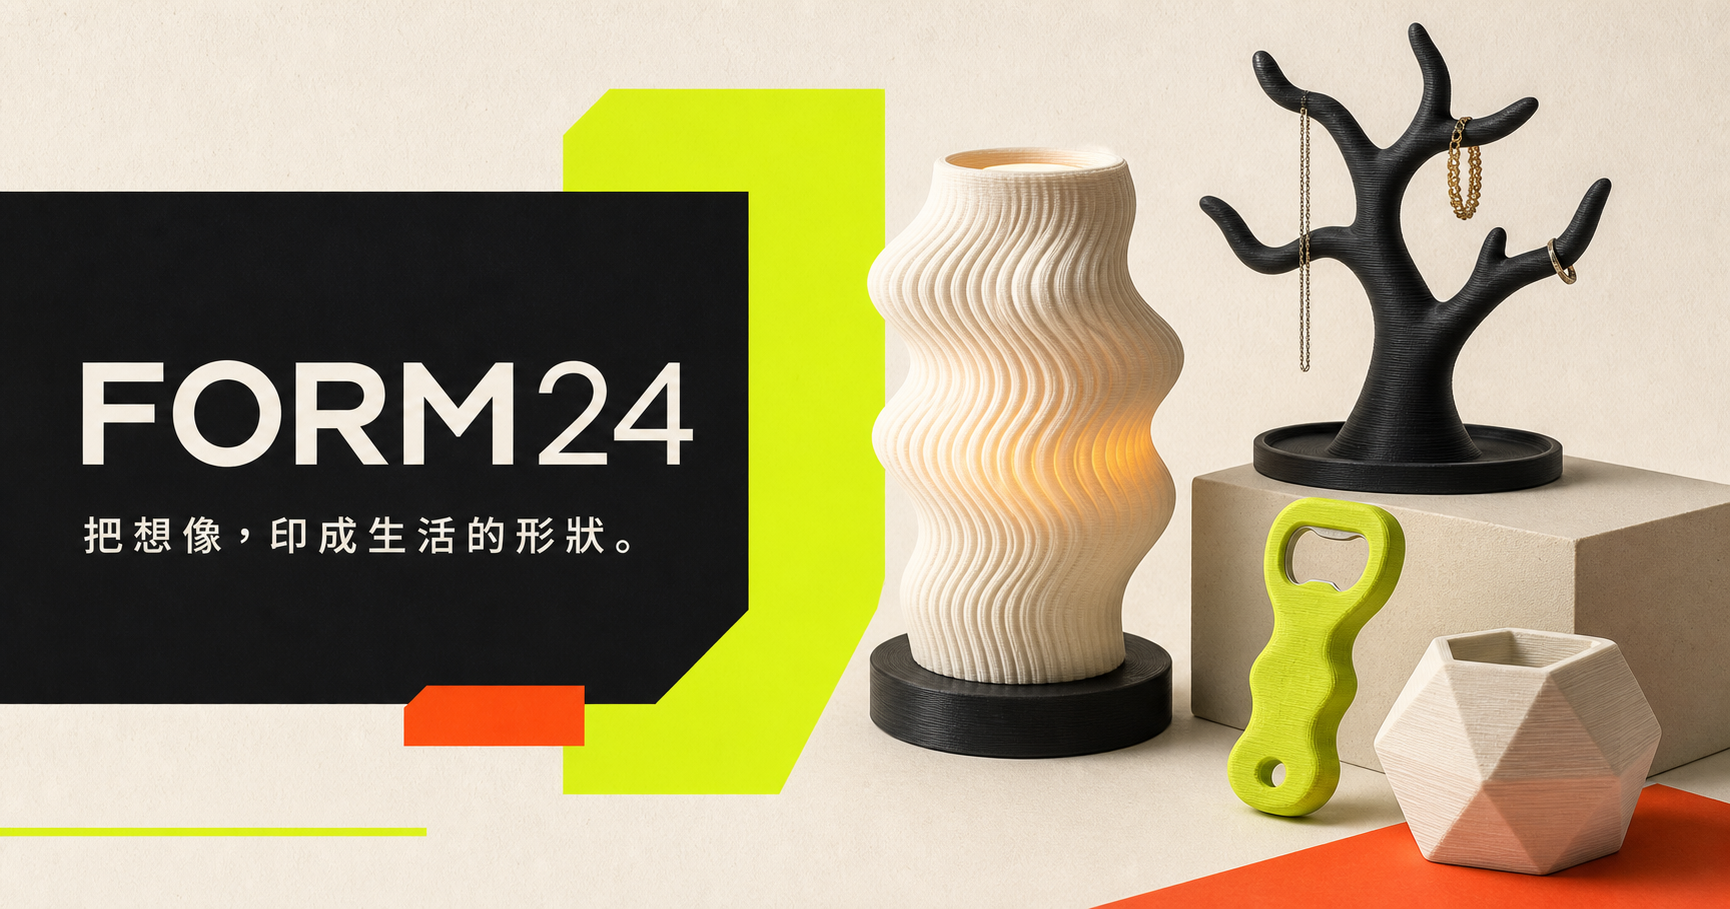
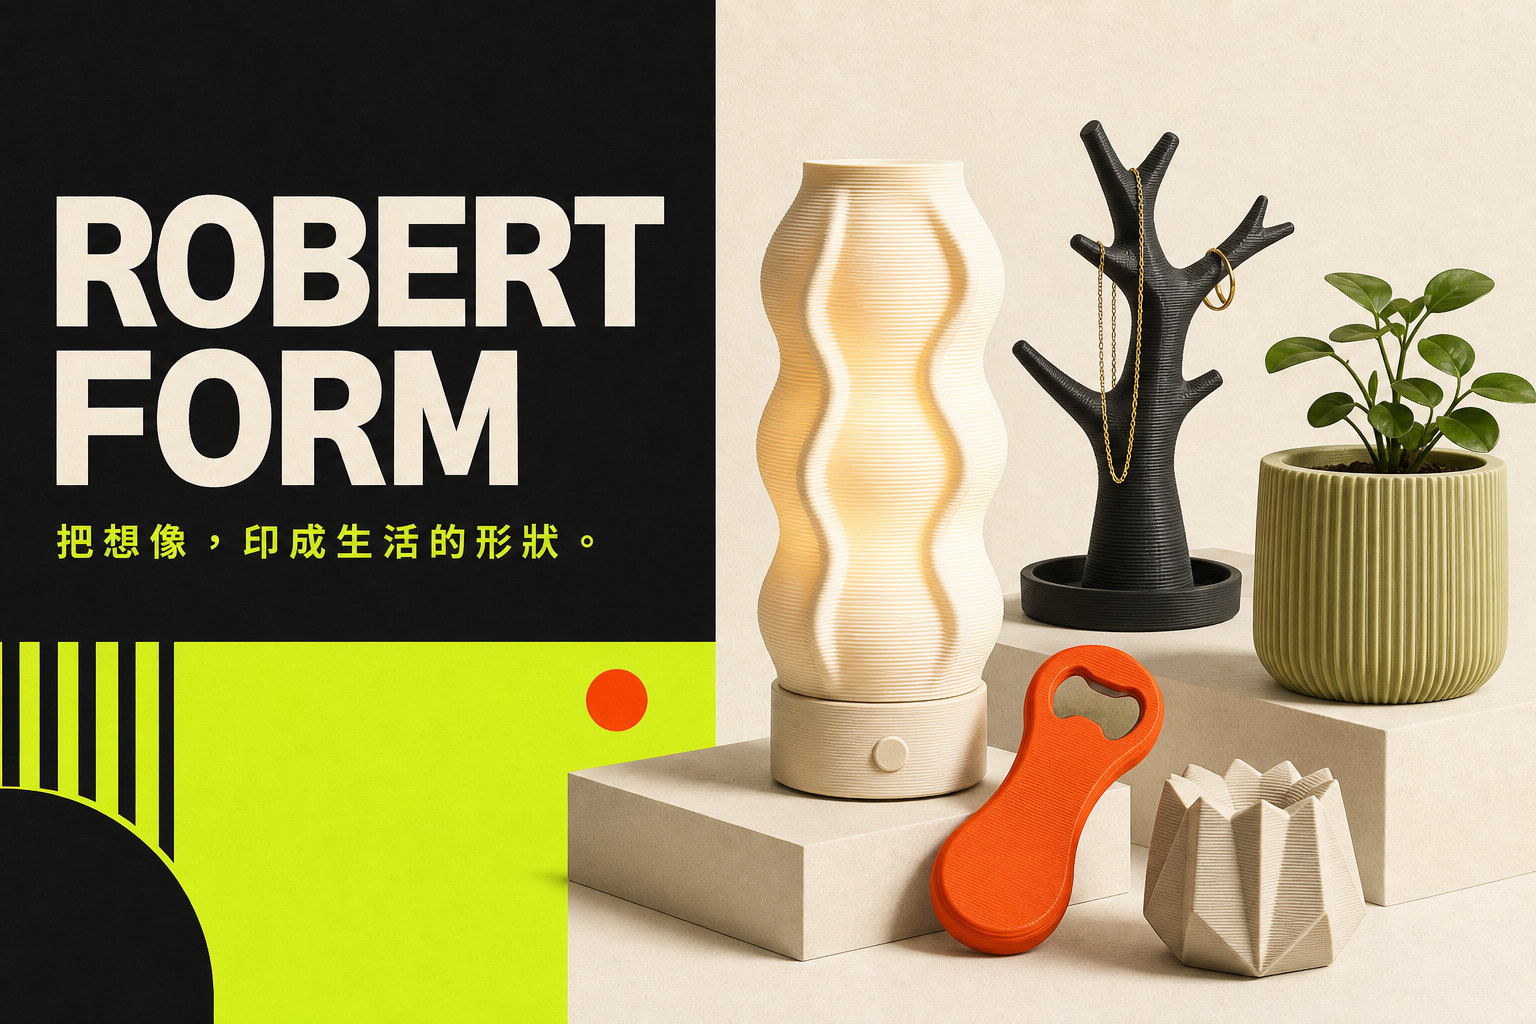
Rebrand site as Robert Form with Noto Sans TC

diff --git a/app/layout.tsx b/app/layout.tsx
@@ -1,16 +1,13 @@
 import type { Metadata } from "next";
 import { headers } from "next/headers";
-import { Geist, Geist_Mono } from "next/font/google";
+import { Noto_Sans_TC } from "next/font/google";
 import "./globals.css";
 
-const geistSans = Geist({
-  variable: "--font-geist-sans",
-  subsets: ["latin"],
-});
-
-const geistMono = Geist_Mono({
-  variable: "--font-geist-mono",
-  subsets: ["latin"],
+const notoSansTC = Noto_Sans_TC({
+  variable: "--font-noto-sans-tc",
+  weight: ["300", "400", "500", "600", "700", "800", "900"],
+  preload: false,
+  display: "swap",
 });
 
 export async function generateMetadata(): Promise<Metadata> {
@@ -20,20 +17,20 @@ export async function generateMetadata(): Promise<Metadata> {
   const origin = `${protocol}://${host}`;
 
   return {
-    title: "FORM24｜3D 列印生活選品",
+    title: "ROBERT FORM｜3D 列印生活選品",
     description: "從燈具、飾品到酒具與家居，探索 3D 列印設計與客製可能。",
     icons: {
       icon: "/favicon.svg",
       shortcut: "/favicon.svg",
     },
     openGraph: {
-      title: "FORM24｜3D 列印生活選品",
+      title: "ROBERT FORM｜3D 列印生活選品",
       description: "把想像，印成生活的形狀。",
       images: [`${origin}/og.png`],
     },
     twitter: {
       card: "summary_large_image",
-      title: "FORM24｜3D 列印生活選品",
+      title: "ROBERT FORM｜3D 列印生活選品",
       description: "把想像，印成生活的形狀。",
       images: [`${origin}/og.png`],
     },
@@ -47,9 +44,7 @@ export default function RootLayout({
 }>) {
   return (
     <html lang="zh-Hant">
-      <body
-        className={`${geistSans.variable} ${geistMono.variable} antialiased`}
-      >
+      <body className={`${notoSansTC.variable} antialiased`}>
         {children}
       </body>
     </html>

diff --git a/app/page.tsx b/app/page.tsx
@@ -75,9 +75,9 @@ export default function Home() {
   return (
     <main>
       <header className="site-header">
-        <a className="brand" href="#top" aria-label="FORM24 首頁">
-          <span className="brand-mark">F24</span>
-          <span>FORM<span className="brand-light">24</span></span>
+        <a className="brand" href="#top" aria-label="ROBERT FORM 首頁">
+          <span className="brand-mark">RF</span>
+          <span>ROBERT <span className="brand-light">FORM</span></span>
         </a>
         <nav aria-label="主要導覽">
           <a href="#catalog">選品目錄</a>
@@ -189,7 +189,7 @@ export default function Home() {
       </section>
 
       <footer id="contact">
-        <div><span className="brand-mark">F24</span><strong>FORM24</strong></div>
+        <div><span className="brand-mark">RF</span><strong>ROBERT FORM</strong></div>
         <p>你的想法，值得被做出來。</p>
         <a href="mailto:hello@example.com">hello@example.com ↗</a>
         <small>Prototype catalogue · Source images linked to MakerWorld</small>

diff --git a/app/globals.css b/app/globals.css
@@ -14,7 +14,7 @@ body {
   margin: 0;
   background: var(--paper);
   color: var(--ink);
-  font-family: Arial, "Noto Sans TC", sans-serif;
+  font-family: var(--font-noto-sans-tc), "Noto Sans TC", sans-serif;
 }
 a { color: inherit; text-decoration: none; }
 button, input { font: inherit; }
